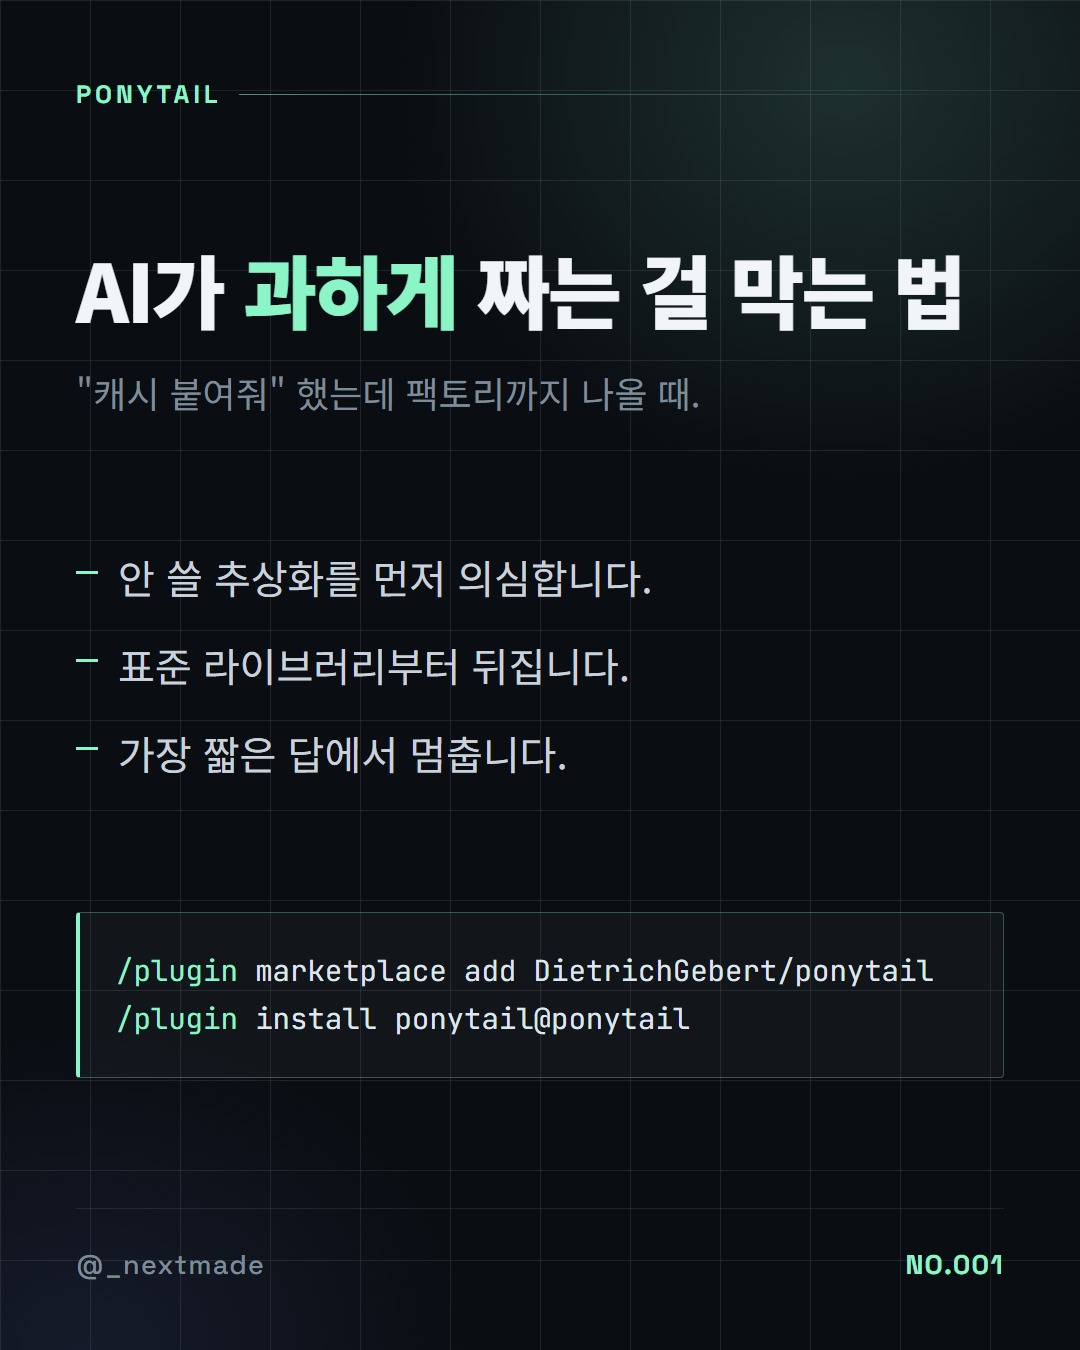
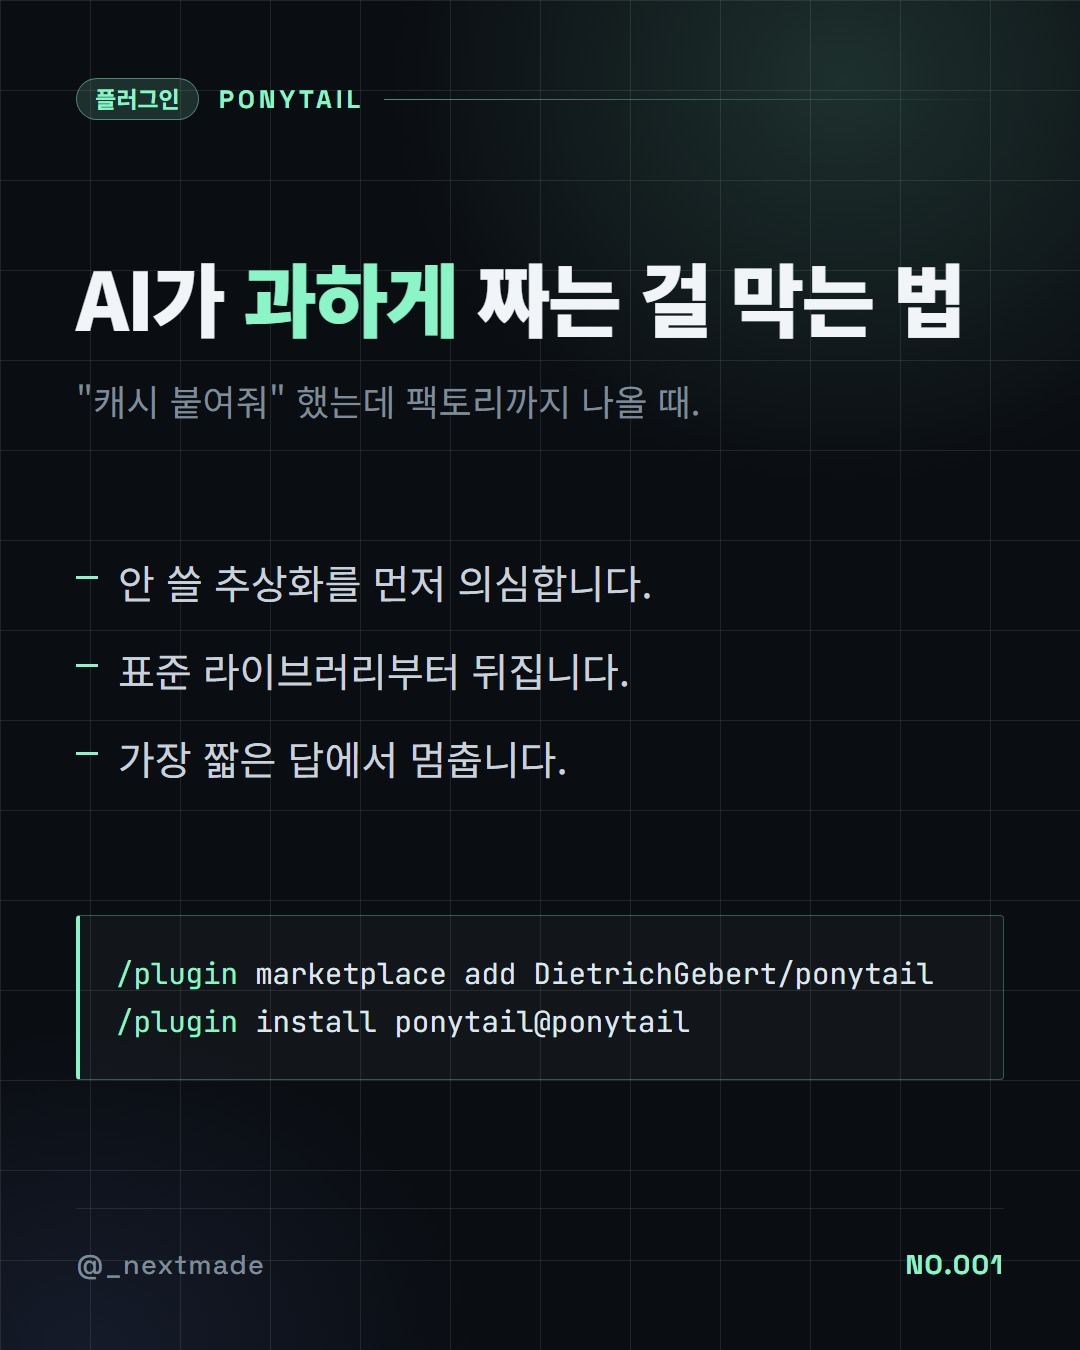
Split the kicker into a type badge and a name
상단 라벨이 자유 문자열이라 카드마다 성격이 안 잡혔다.
타입 배지 + 이름 두 부분으로 나눈다.

  [플러그인] PONYTAIL ─────────

- type 필드 추가. 스킬 / 플러그인 / MCP / 설정 / 기본 다섯 값으로
  스키마에 enum 고정 — 모델이 새 분류를 지어내지 못하게.
- kicker 는 이제 이름만 담는다 (PONYTAIL, HUMANIZER, CLAUDE.MD).
- 배지는 액센트 테두리 + 반투명 배경의 pill.

큐 5장에 타입 부여: 플러그인 2, 설정 1, 기본 2.
MCP 카드는 아직 없지만 값은 미리 열어둔다.

Claude-Session: https://claude.ai/code/session_01Pgi9qNzz7ty1zwrrXg3EnP

diff --git a/insta/template.html b/insta/template.html
@@ -46,7 +46,21 @@ body {
 .kicker {
   display: flex;
   align-items: center;
-  gap: 18px;
+  gap: 20px;
+}
+/* 타입 배지 — 스킬 / 플러그인 / MCP / 설정 / 기본 */
+.kicker .tag {
+  flex: none;
+  padding: 8px 18px 9px;
+  border-radius: 999px;
+  border: 1px solid color-mix(in srgb, var(--accent) 45%, transparent);
+  background: color-mix(in srgb, var(--accent) 15%, transparent);
+  font-weight: 700;
+  font-size: 23px;
+  line-height: 1;
+  color: var(--accent);
+}
+.kicker .name {
   font-family: 'Space Grotesk', sans-serif;
   font-weight: 700;
   font-size: 25px;
@@ -141,7 +155,7 @@ body {
 </head>
 <body>
   <div class="card">
-    <div class="kicker">{{KICKER}}</div>
+    <div class="kicker"><span class="tag">{{TYPE}}</span><span class="name">{{KICKER}}</span></div>
     <div class="head">
       <h1 class="title {{TITLE_CLASS}}">{{TITLE}}</h1>
       <p class="lead">{{LEAD}}</p>

diff --git a/insta/post.py b/insta/post.py
@@ -36,7 +36,12 @@ SCHEMA = {
     "type": "object",
     "properties": {
         "topic": {"type": "string", "description": "이 게시물의 주제를 한 문장으로. 중복 방지용 내부 기록."},
-        "kicker": {"type": "string", "description": "카드 최상단 영문 대문자 라벨. 2~4단어."},
+        "type": {
+            "type": "string",
+            "enum": ["스킬", "플러그인", "MCP", "설정", "기본"],
+            "description": "카드 최상단 타입 배지. 새 값을 만들지 말 것.",
+        },
+        "kicker": {"type": "string", "description": "타입 배지 옆 이름. 스킬·플러그인이면 그 이름, 아니면 영문 대문자 라벨 1~3단어."},
         "title": {"type": "string", "description": "카드 대제목. 한국어 18자 이내. 강조할 부분은 <em>로 감쌀 것."},
         "lead": {"type": "string", "description": "제목 아래 한 줄. 이게 없을 때 뭐가 괴로운지. 32자 이내."},
         "points": {
@@ -52,7 +57,7 @@ SCHEMA = {
         "caption": {"type": "string", "description": "인스타 캡션. 3~5문장. 카드 내용을 풀어 설명하고 마지막에 질문 하나."},
         "hashtags": {"type": "array", "items": {"type": "string"}, "description": "# 포함 해시태그 5~8개."},
     },
-    "required": ["topic", "kicker", "title", "lead", "points", "code", "caption", "hashtags"],
+    "required": ["topic", "type", "kicker", "title", "lead", "points", "code", "caption", "hashtags"],
     "additionalProperties": False,
 }
 
@@ -146,6 +151,7 @@ def fill_template(copy: dict, index: int) -> str:
     page_html = (ROOT / "template.html").read_text(encoding="utf-8")
     for key, value in {
         "{{ACCENT}}": CONFIG["accent"],
+        "{{TYPE}}": html.escape(copy.get("type", "기본")),
         "{{KICKER}}": html.escape(copy["kicker"]),
         "{{TITLE}}": title,
         "{{TITLE_CLASS}}": "long" if len(copy["title"].replace("<em>", "").replace("</em>", "")) > 18 else "",
